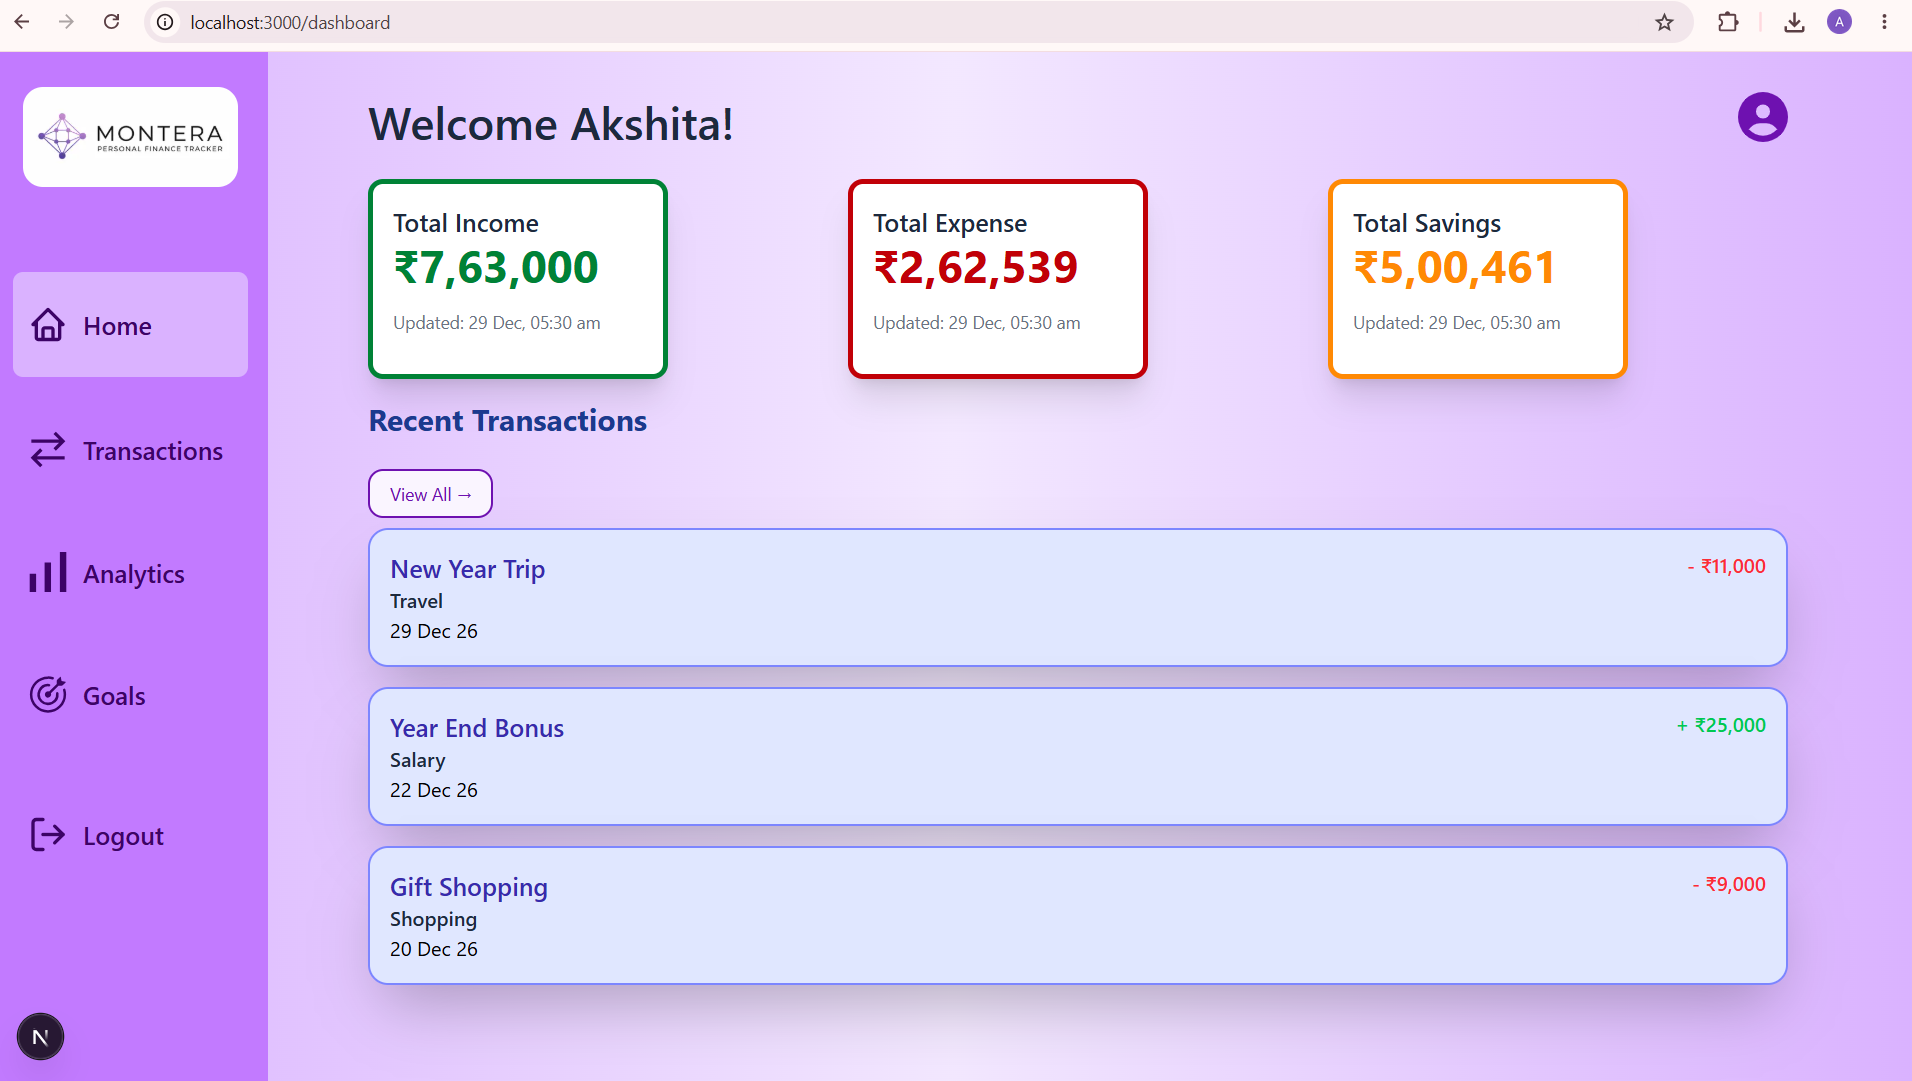
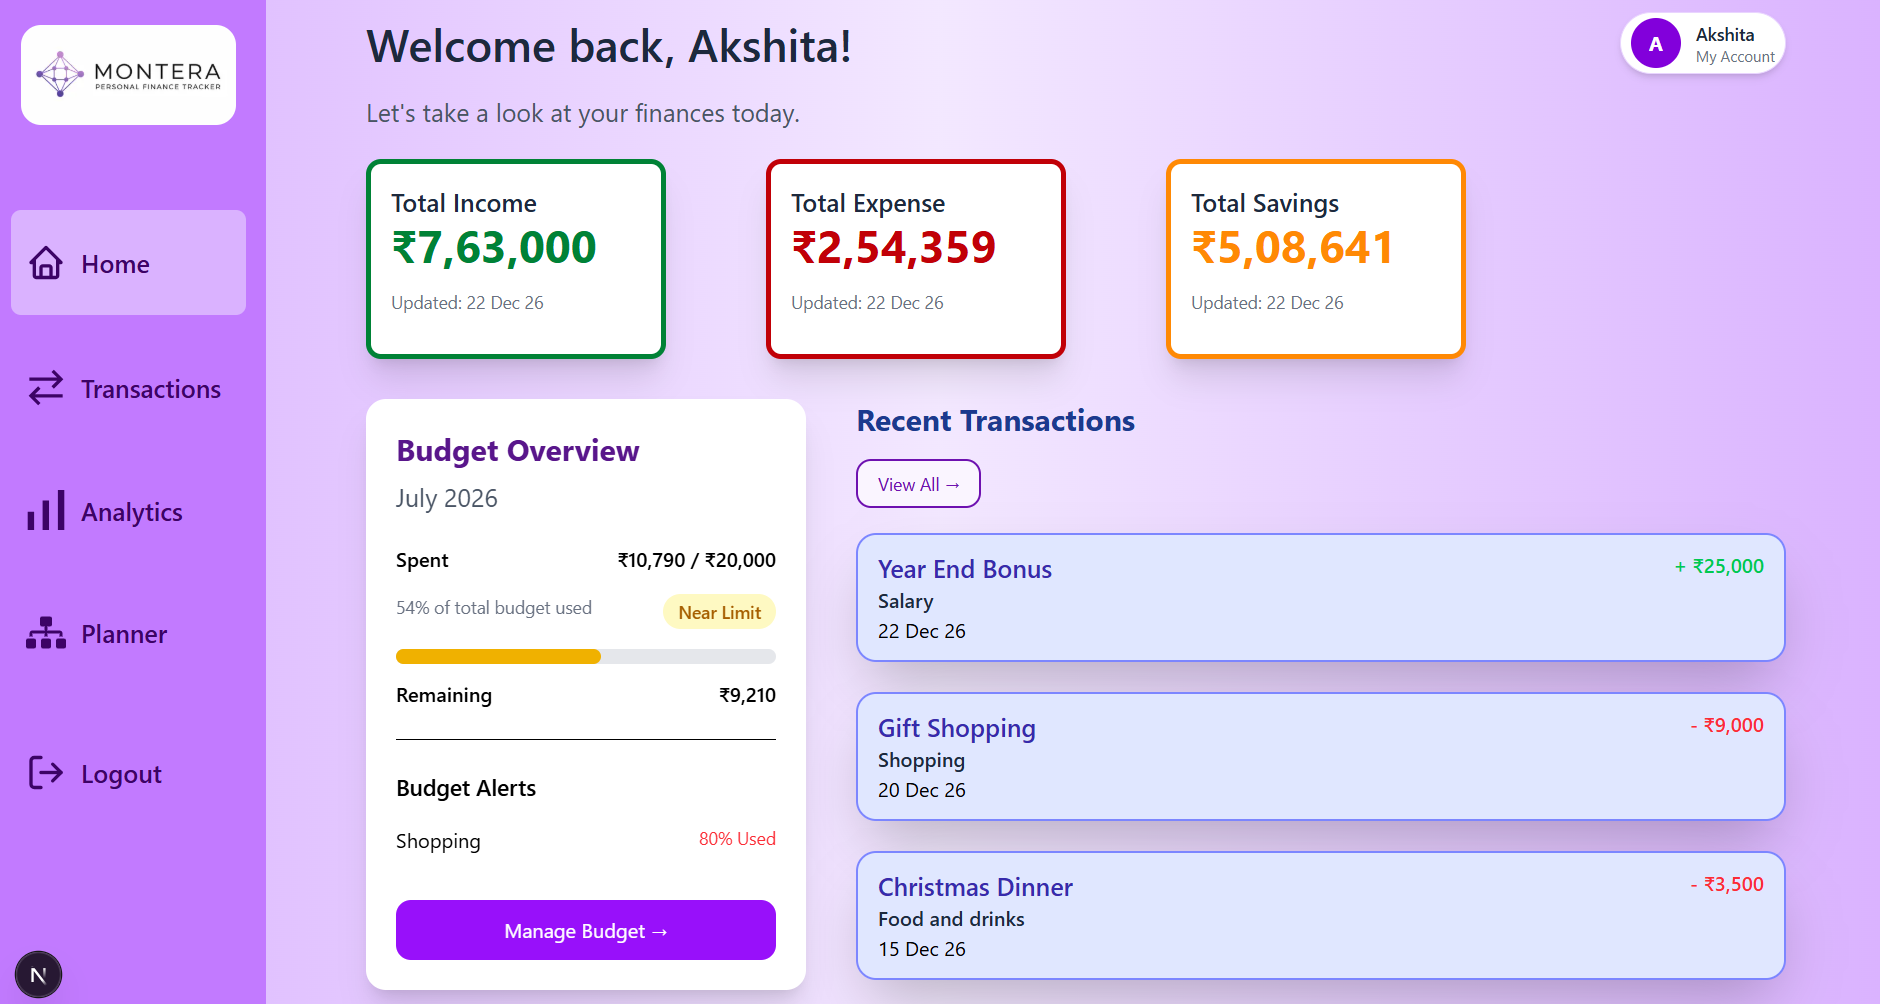
Update Readme with goal and budget section

diff --git a/README.md b/README.md
@@ -1,16 +1,48 @@
 # Montera - Personal Finance Tracker
 
-A full - stack finance management application that enables users to securely manage income, expense, savings, and financial insights through an intuitive dashboard.
+## Overview
+
+Montera is a modern full-stack personal finance management application designed to help users monitor their income, expenses, budgets, and financial goals in one place. It provides interactive analytics, personalized financial insights, goal tracking, and budget planning through an intuitive and responsive interface.
+
+The project was built to demonstrate full-stack development skills using the MERN ecosystem with secure authentication, RESTful APIs, data visualization, and responsive UI design.
 
 ## Features
 
-- User authentication using JWT
-- Dashboard with financial summary
-- Income and expense managemnt
-- Interactive analytics
-- Expense categorization
-- Responsive design
+### Authentication
+- Secure JWT-based authentication
 - Protected routes
+- User-specific financial data
+
+### Dashboard
+- Financial summary cards
+- Recent transactions
+- Budget overview
+- Quick navigation
+
+### Transaction Management
+- Add, edit, and delete transactions
+- Search transactions
+- Category filtering
+- Income & expense tracking
+
+### Analytics
+- Income vs Expense charts
+- Expense distribution (Pie Chart)
+- Spending trends
+- Financial insights
+
+### Financial Planner
+- Savings goals
+- Budget management
+- Goal progress tracking
+- Add savings to goals
+
+### User Experience
+- Responsive design
+- Loading skeletons
+- Button loading states
+- Empty states for new users
+- Toast notifications
 
 ## Tech Stack
 
@@ -49,6 +81,13 @@ Authentication
 
 ![Analytics](Screenshots/analyticsPageSecond.png)
 
+### Planner
+
+![Planner](Screenshots/goalSection.png)
+
+![Planner](Screenshots/budgetSection.png)
+
+
 
 ## Responsive design
 Montera is fully responsive and optimized for desktops, tablet and mobile devices
@@ -57,7 +96,7 @@ Montera is fully responsive and optimized for desktops, tablet and mobile device
 
 - Responsive sidebar navigation
 - Optimized card layout
-- Wide chart visulalization
+- Wide chart visualization
 
 ![Desktop Dashboard](Screenshots/dashboardPage.png)
 
@@ -65,9 +104,9 @@ Montera is fully responsive and optimized for desktops, tablet and mobile device
 
 ### Mobile Experience
 
-- Bottom naviigation for quick access
+- Bottom navigation for quick access
 - Mobile optimized dashboard
-- Responsive trabsaction cards
+- Responsive transaction cards
 - Adaptive analytics layout
 
 | Mobile Dashboard | Mobile Analytics |
@@ -75,7 +114,7 @@ Montera is fully responsive and optimized for desktops, tablet and mobile device
 | ![](Screenshots/mobileDashboard.png) | ![](Screenshots/mobileAnalytics.png) |
 
 
-## Project Sturcture
+## Project Structure
 
 ```text
 Finance-tracker/
@@ -91,7 +130,7 @@ Finance-tracker/
 |  └─package.json
 |
 ├─frontend/
-|  └─finance-mamagement-app/
+|  └─finance-management-app/
 |    ├─public/
 |    ├─src/
 |    | └─app/
@@ -136,7 +175,7 @@ cd Finance-tracker
 
 ```bash
 cd backend
-npn install
+npm install
 ```
 
 ### 3. Install Frontend Dependencies
@@ -158,8 +197,8 @@ PORT=5000
 
 Replace the placeholder values with:
 
-- **MONGO_URI** → Your MongoDb Atlas connectoon string
-- **JWT_SECRET** → Asecure random secret key used for signing JWTs.
+- **MONGO_URI** → Your MongoDB Atlas connection string
+- **JWT_SECRET** → A secure random secret key used for signing JWTs.
 - **PORT** → Backend server port (default: `5000`).
 
 ### 5. Start Backend Server
@@ -174,7 +213,7 @@ npm run dev
 Open new terminal
 
 ```bash
-cd frontend/finance-managemnt-app
+cd frontend/finance-management-app
 npm run dev
 ```
 
@@ -193,25 +232,81 @@ After starting both the frontend and backend servers:
 - View recent transactions on the dashboard.
 - Analyze spending patterns through interactive charts.
 - Filter analytics by month to gain financial insights.
-- Mange all transactions from the Transactions page.
+- Manage all transactions from the Transactions page.
 
 ## Authentication 
 
-Montera uses **JWT (JSON Web Token)** for secure user authnetication.
+Montera uses **JWT (JSON Web Token)** for secure user authentication.
 
-Authnetication flow
+Authentication flow
 
 1. User logs in with email and password.
 2. Password is verified using **bcrypt**.
-3. AJWT is generated upon successful authentication.
+3. A JWT is generated upon successful authentication.
 4. The token is stored in the browser for authenticated requests.
-5. Protected API rouets validates the token before granting access to user-specific resources.
+5. Protected API routes validate JWTs before granting access to user-specific resources.
 
 > **Note:** For simplicity, the current implementation stores JWT in localStorage. In a production environment, HttpOnly cookies are recommended for enhanced security.
 
+## REST API
+
+### Authentication
+POST /api/auth/signup
+
+POST /api/auth/login
+
+GET /api/auth/me
+
+### Transactions
+GET /api/transactions
+
+POST /api/transactions
+
+PUT /api/transactions/:id
+
+DELETE /api/transactions/:id
+
+### Goals
+GET /api/goals
+
+POST /api/goals
+
+PUT /api/goals/:id
+
+DELETE /api/goals/:id
+
+### Budgets
+GET /api/budget
+
+POST /api/budget
+
+PUT /api/budget/:id
+
+DELETE /api/budget/:id
+
+## Challenges
+
+Some key challenges while building Montera included:
+
+- Designing a responsive dashboard for desktop and mobile.
+- Managing user authentication securely using JWT.
+- Building reusable modal components.
+- Implementing loading states and skeleton screens.
+- Organizing the project into reusable components for scalability.
+
+## Deployment
+
+Frontend:
+Vercel
+
+Backend:
+Render
+
+Database:
+MongoDB Atlas
+
 ## Future Enhancements
 
-- Financial Planner (Budget & Goals)
 - AI - powered monthly financial summaries.
 - Smart spending recommendations
 - Export transaction as CSV/PDF